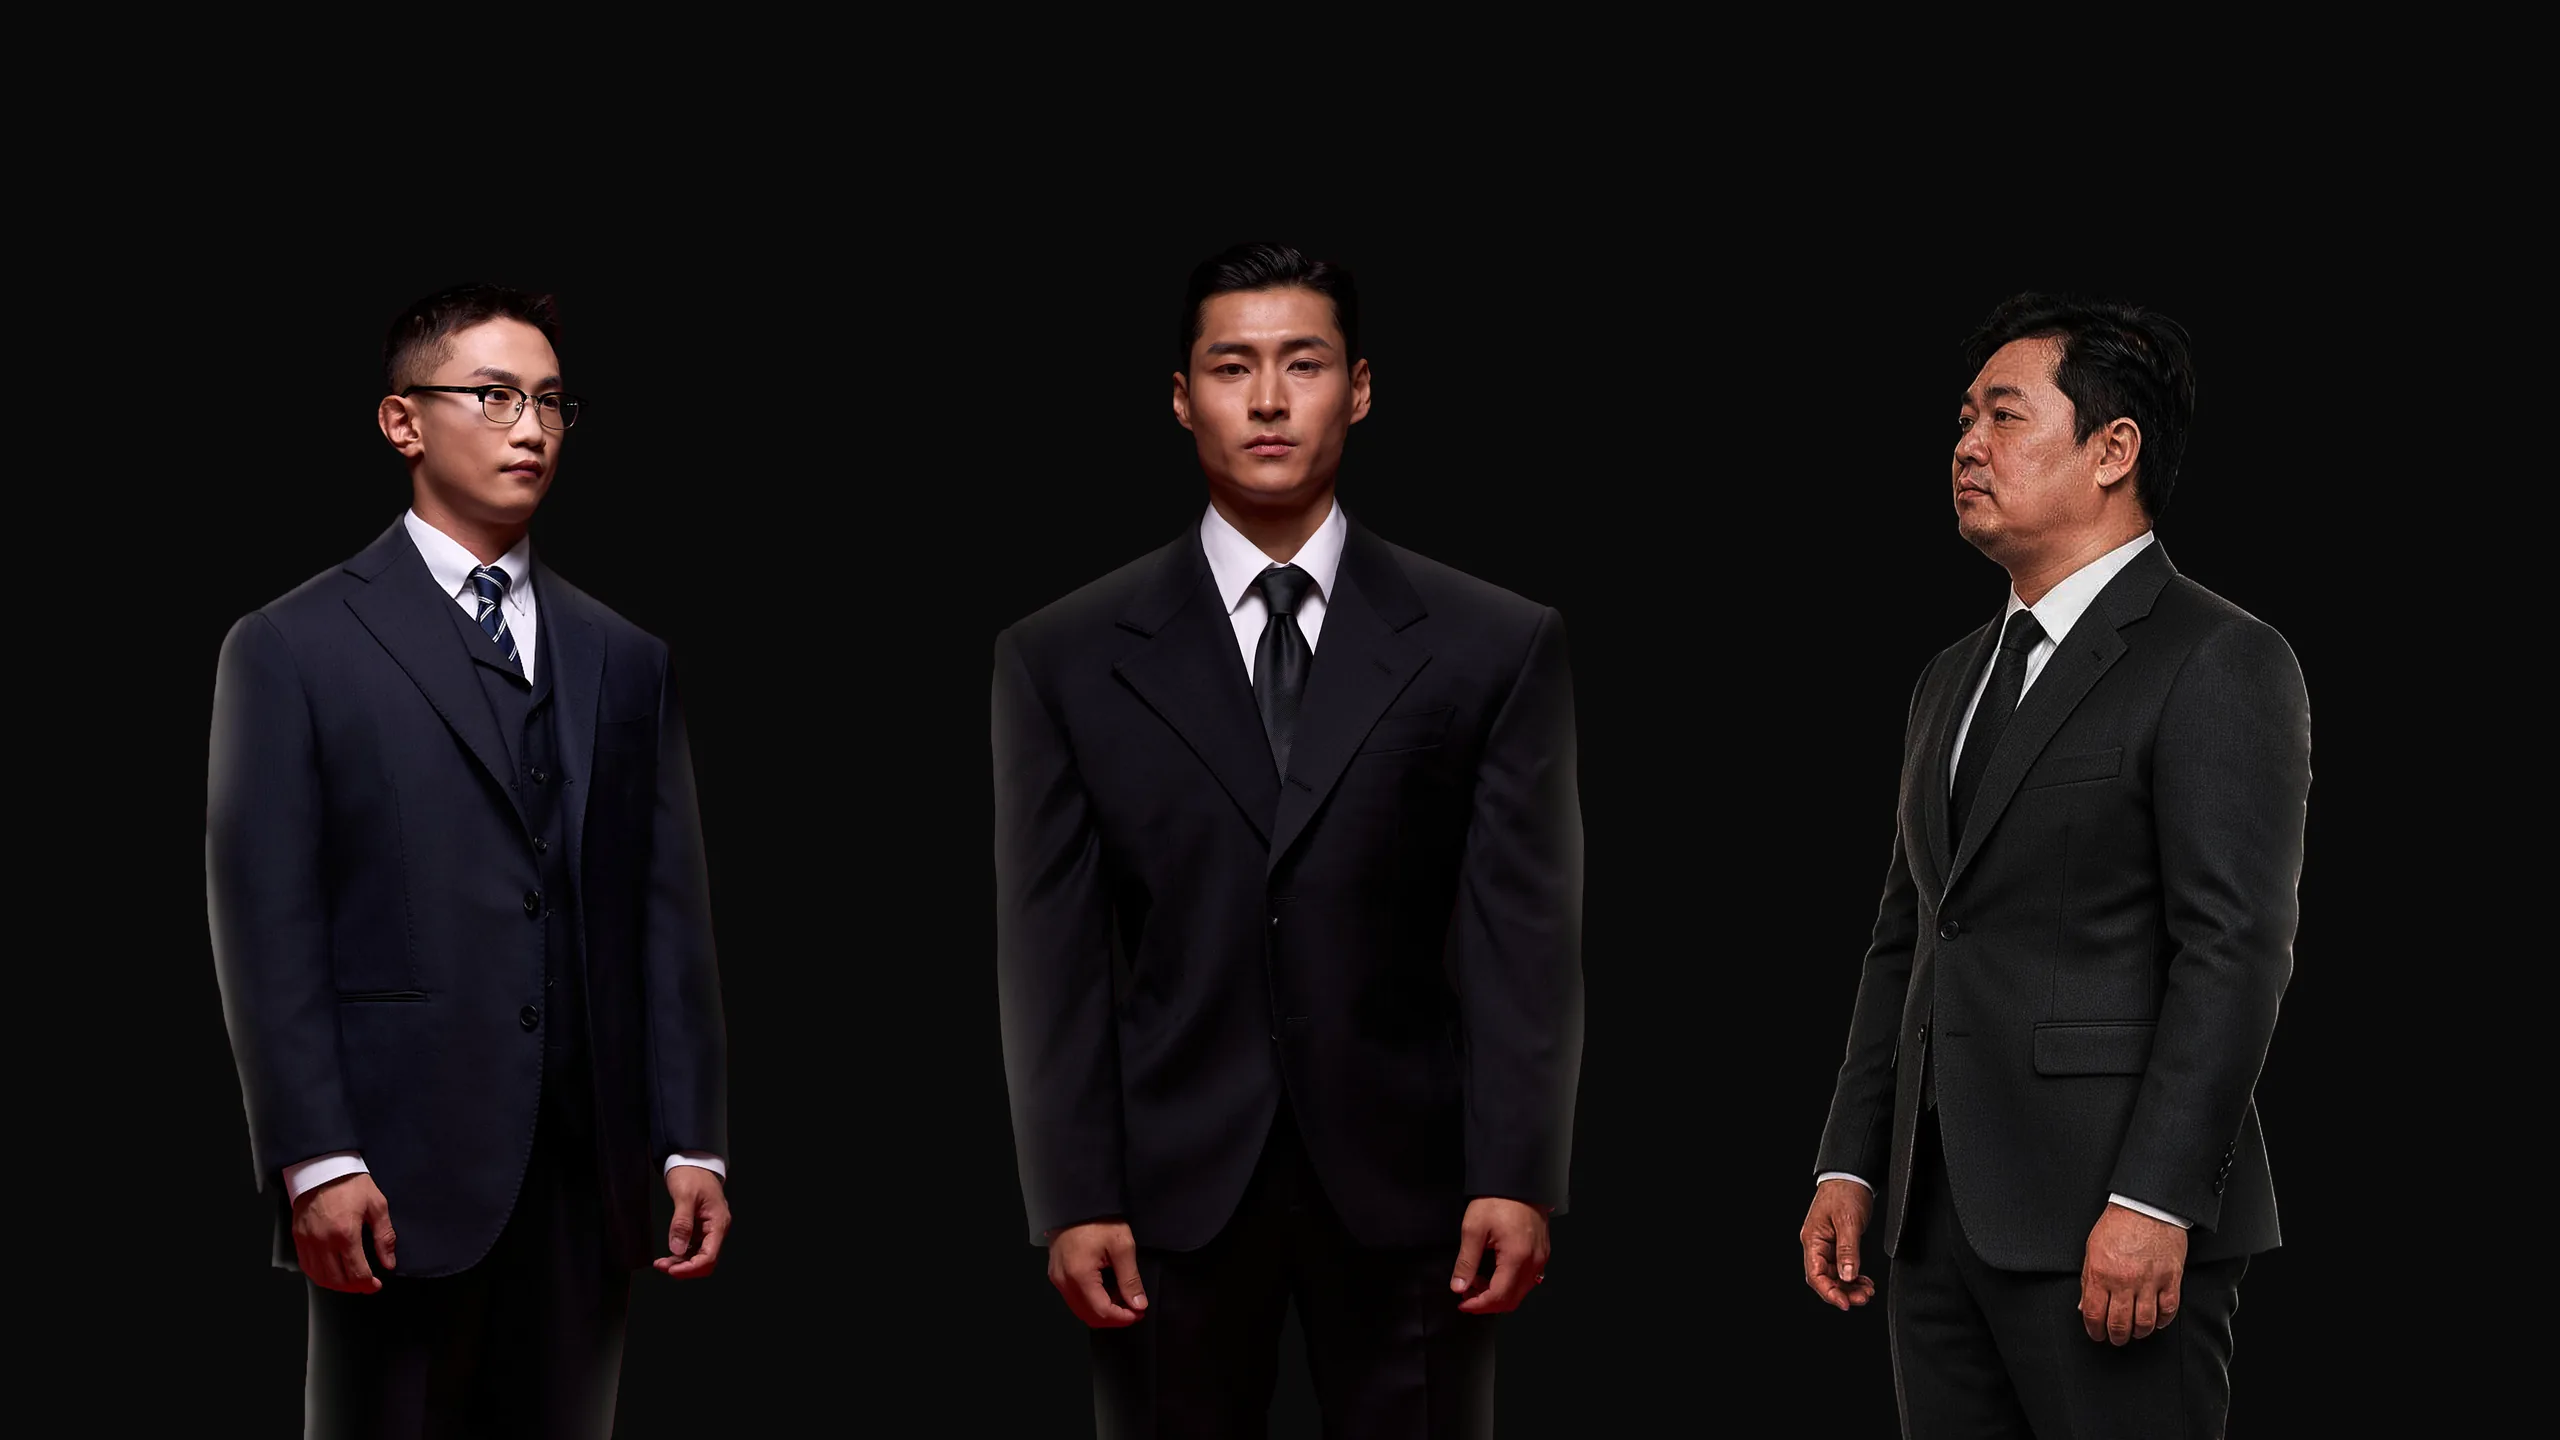
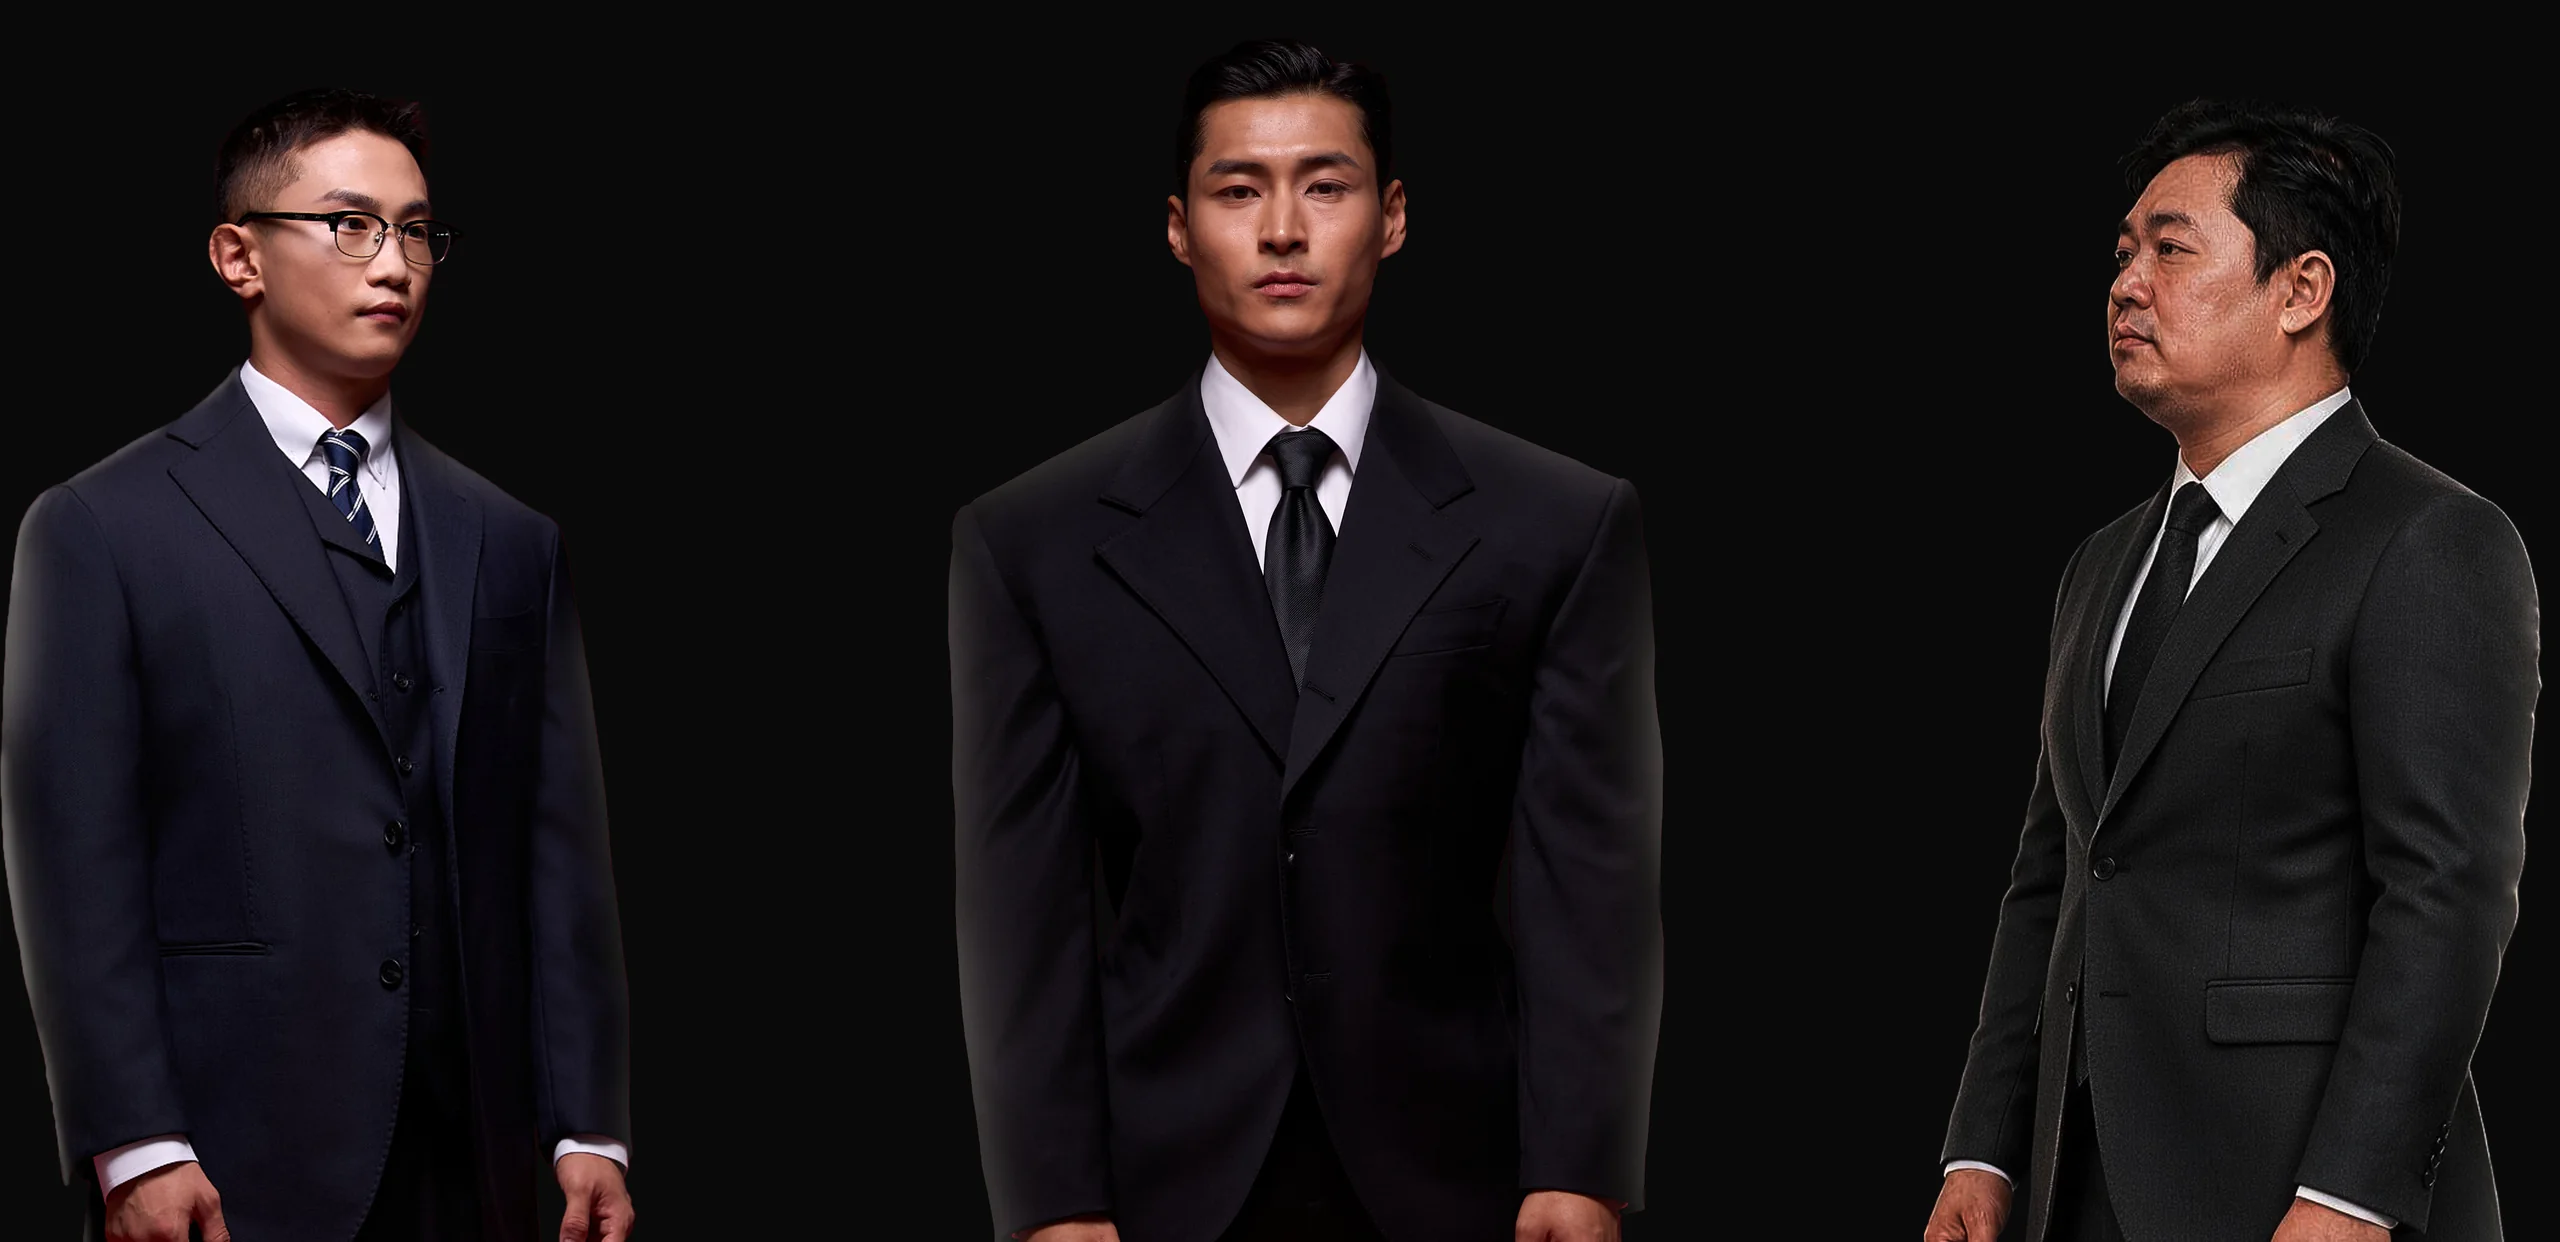
체형 화면 — 가운데 맨몸 사진 · 사람 크게(세 사람만 남게 자름) · 화살표 얇게, 팔통 · 어깨 끝선 · 배 라인

diff --git a/src/components/home/BodyStory.tsx b/src/components/home/BodyStory.tsx
@@ -16,7 +16,8 @@ import { useReducedMotion, useScrollStep } from "@/lib/useScroll";
  * 무대는 장면 수 × 화면 높이만큼 길고, 안쪽 한 화면이 sticky 로 붙어 있다. 장면 번호(정수)가 바뀔 때만 다시 그린다(useScrollStep).
  * 움직임 줄임 설정이면 바뀌는 것은 같고 옅어지는 연출만 뺀다.
  * 장면마다 붙는 표지(snap-start)가 있어 휠 한 번에 한 장면씩 넘어간다(메인의 SnapHome).
- * 화살표 좌표는 고객 원본(16:9, 2026-11-09) 기준이다 — 사진과 같은 비율(1000 × 563)의 SVG 를 사진과 같은 자리(아래 가운데)에 맞춘다.
+ * 2026-11-18 고객 요청 "사람들이 너무 작다": 원본(10614 × 5970)에서 세 사람만 남기고 잘라(x 850~9650 · y 870~5140, 무릎 위까지)
+ * 2560 × 1242 로 내보낸다. 두 장을 같은 자리로 잘라 바뀔 때 사람이 튀지 않는다. 화살표는 이 사진과 같은 비율(1100 × 534)의 SVG.
  * 바탕은 사진 배경색(#090909)과 같게 — 화면 비율이 달라 사진 둘레가 남아도 경계가 보이지 않는다.
  */
 
@@ -47,8 +48,8 @@ export function BodyStory() {
         </div>
 
         {/* 사진 두 장(체형 · 수트)이 같은 자리에 겹쳐 있다 */}
-        {/* 폰은 가로 사진이 작아서 양옆 빈 배경을 조금 잘라(116vw — 사람은 사진 가로 8 ~ 90% 안에 있다) 키우고, 화면 가운데에 둔다 */}
-        <div className="relative mt-6 w-full max-w-[1100px] flex-1 max-md:w-[116vw] max-md:max-w-none">
+        {/* 사진은 이미 세 사람만 남게 잘려 있어 폰에서도 화면 폭 그대로. PC 는 화면 높이를 채우도록 넓게 둔다 */}
+        <div className="relative mt-6 w-full max-w-[1600px] flex-1">
           <Photo src={BODY_STORY.bodies.image} alt={BODY_STORY.bodies.alt} hint="세 체형 사진 (상의 탈의, 가로 한 장)" className={`${fade} ${fit ? "opacity-0" : "opacity-100"}`} />
           <Arrows center={!BODY_STORY.centerBodyPending} className={`${fade} ${step === 1 ? "opacity-100" : "opacity-0"}`} />
           <Arrows center={!BODY_STORY.centerBodyPending} mobile className={`${fade} ${step === 1 ? "opacity-100" : "opacity-0"}`} />
@@ -85,35 +86,39 @@ function Photo({ src, alt, hint, className }: { src: string | null; alt: string;
   );
 }
 
-/** 빨간 화살표 — 왼쪽 사람 가슴, 가운데 사람 어깨 넓이 · 허리, 오른쪽 사람 배. 좌표는 사진과 같은 1000 × 563 기준 */
+/**
+ * 빨간 화살표 (2026-11-18 고객 요청) — 왼쪽 사람 팔통, 가운데 사람 어깨 끝선 · 허리, 오른쪽 사람 배 라인을 따라 아래로.
+ * 좌표는 잘라 낸 사진과 같은 1100 × 534 기준. 선은 화면 크기와 상관없이 1.5px(non-scaling-stroke)로 얇게, 화살촉도 작게.
+ */
 function Arrows({ className, center, mobile = false }: { className: string; center: boolean; mobile?: boolean }) {
   // 사진과 같은 자리 — PC 는 아래에 붙고(xMidYMax), 폰은 가운데(xMidYMid). preserveAspectRatio 는 CSS 로 못 바꿔 둘을 그리고 하나만 보인다
   const id = mobile ? "body-arrow-m" : "body-arrow";
+  const line = { markerStart: `url(#${id})`, markerEnd: `url(#${id})` };
   return (
     <svg
-      viewBox="0 0 1000 563"
+      viewBox="0 0 1100 534"
       preserveAspectRatio={mobile ? "xMidYMid meet" : "xMidYMax meet"}
       aria-hidden="true"
       className={`pointer-events-none absolute inset-0 h-full w-full ${mobile ? "md:hidden" : "max-md:hidden"} ${className}`}
     >
       <defs>
-        <marker id={id} viewBox="0 0 10 10" refX="6" refY="5" markerWidth="5" markerHeight="5" orient="auto-start-reverse">
-          <path d="M0 0 10 5 0 10Z" fill="#C42A2A" />
+        <marker id={id} viewBox="0 0 10 10" refX="7" refY="5" markerUnits="userSpaceOnUse" markerWidth="9" markerHeight="9" orient="auto-start-reverse">
+          <path d="M1 1 9 5 1 9" fill="none" stroke="#C83A3A" strokeWidth="1.6" strokeLinecap="round" strokeLinejoin="round" />
         </marker>
       </defs>
-      <g fill="none" stroke="#C42A2A" strokeWidth="4" strokeLinecap="round">
-        {/* 왼쪽 — 얇은 가슴 */}
-        <path d="M112 318 C150 356 205 356 244 318" markerStart={`url(#${id})`} markerEnd={`url(#${id})`} />
+      <g fill="none" stroke="#C83A3A" strokeWidth="1.5" strokeLinecap="round" vectorEffect="non-scaling-stroke">
+        {/* 왼쪽 — 팔통(위팔) 둘레 */}
+        <path d="M26 336 C38 360 70 360 82 336" vectorEffect="non-scaling-stroke" {...line} />
         {center && (
           <>
-            {/* 가운데 — 넓은 어깨 */}
-            <path d="M380 230 L625 230" markerStart={`url(#${id})`} markerEnd={`url(#${id})`} />
-            {/* 가운데 — 좁은 허리 */}
-            <path d="M432 418 C470 445 530 445 568 418" markerStart={`url(#${id})`} markerEnd={`url(#${id})`} />
+            {/* 가운데 — 어깨 끝선에서 끝선까지 */}
+            <path d="M424 214 Q558 184 694 214" vectorEffect="non-scaling-stroke" {...line} />
+            {/* 가운데 — 허리 */}
+            <path d="M494 378 C526 404 600 404 632 378" vectorEffect="non-scaling-stroke" {...line} />
           </>
         )}
-        {/* 오른쪽 — 나온 배 */}
-        <path d="M692 250 C664 305 668 360 702 402" markerEnd={`url(#${id})`} />
+        {/* 오른쪽 — 배 라인을 따라 아래로 */}
+        <path d="M896 264 C866 314 862 392 880 440" vectorEffect="non-scaling-stroke" markerEnd={`url(#${id})`} />
       </g>
     </svg>
   );

diff --git a/src/data/story.ts b/src/data/story.ts
@@ -157,16 +157,16 @@ export const MAIN_HERO = {
 /*
  * 사진 — 2026-11-09 고객 원본(「더맨리 메인 이미지」 10614 × 5970, 배경 #090909). 2560 × 1440 webp 로 줄여 public/brand/body 에 둔다.
  *   suits.webp   세 사람 정장 합본 그대로
- *   bodies.webp  같은 배경색 위에 좌측 · 우측 맨몸 레이어를 얹고, 가운데 인물은 합본의 정장 모습을 그대로 옮겼다
- *                (2026-11-10 "가운데 인물도 넣어 달라" — 가운데 맨몸 사진이 없어 정장으로). 레이어가 합본과 같은 자리라 바뀔 때 사람이 튀지 않는다
- * TODO(고객확인) 가운데 인물의 맨몸 사진이 오면 bodies.webp 의 가운데를 바꾼다.
+ *   bodies.webp  같은 배경색 위에 좌측 · 중앙 · 우측 맨몸 레이어를 얹었다(중앙 맨몸 2026-11-18 수령).
+ *                레이어가 합본과 같은 자리라 바뀔 때 사람이 튀지 않는다
+ * 2026-11-18 "사람이 너무 작다" — 두 장 모두 같은 자리(x 850~9650 · y 870~5140)로 잘라 2560 × 1242 로 내보낸다(BodyStory).
  */
 export const BODY_STORY = {
   /** ①② 세 체형 — 마른 체형 · 운동 체형(가운데) · 넉넉한 체형 을 한 장에 */
-  bodies: { image: "/brand/body/bodies.webp" as string | null, alt: "흰 티셔츠 차림의 마른 체형 남성과 배가 나온 체형 남성 사이에, 어깨가 넓은 남성이 정장을 입고 서 있다" },
+  bodies: { image: "/brand/body/bodies.webp" as string | null, alt: "흰 티셔츠 차림의 마른 체형 남성과 배가 나온 체형 남성 사이에, 운동으로 어깨와 가슴이 커진 남성이 상의를 벗고 서 있다" },
   /** ③④ 같은 세 사람이 맞춤 수트를 입은 사진 */
   suits: { image: "/brand/body/suits.webp" as string | null, alt: "마른 체형, 운동으로 상체가 커진 체형, 배가 나온 체형의 세 남성이 각자의 체형에 맞춘 수트를 입고 서 있다" },
-  /** 가운데 인물 사진이 없으면 true — ①② 장면의 가운데 화살표를 숨긴다. 지금은 합본의 정장 모습을 넣어 false */
+  /** 가운데 인물 사진이 없으면 true — ①② 장면의 가운데 화살표를 숨긴다 */
   centerBodyPending: false,
   bodiesTitle: "Various Body Types",
   fitTitle: "Custom Fit",
